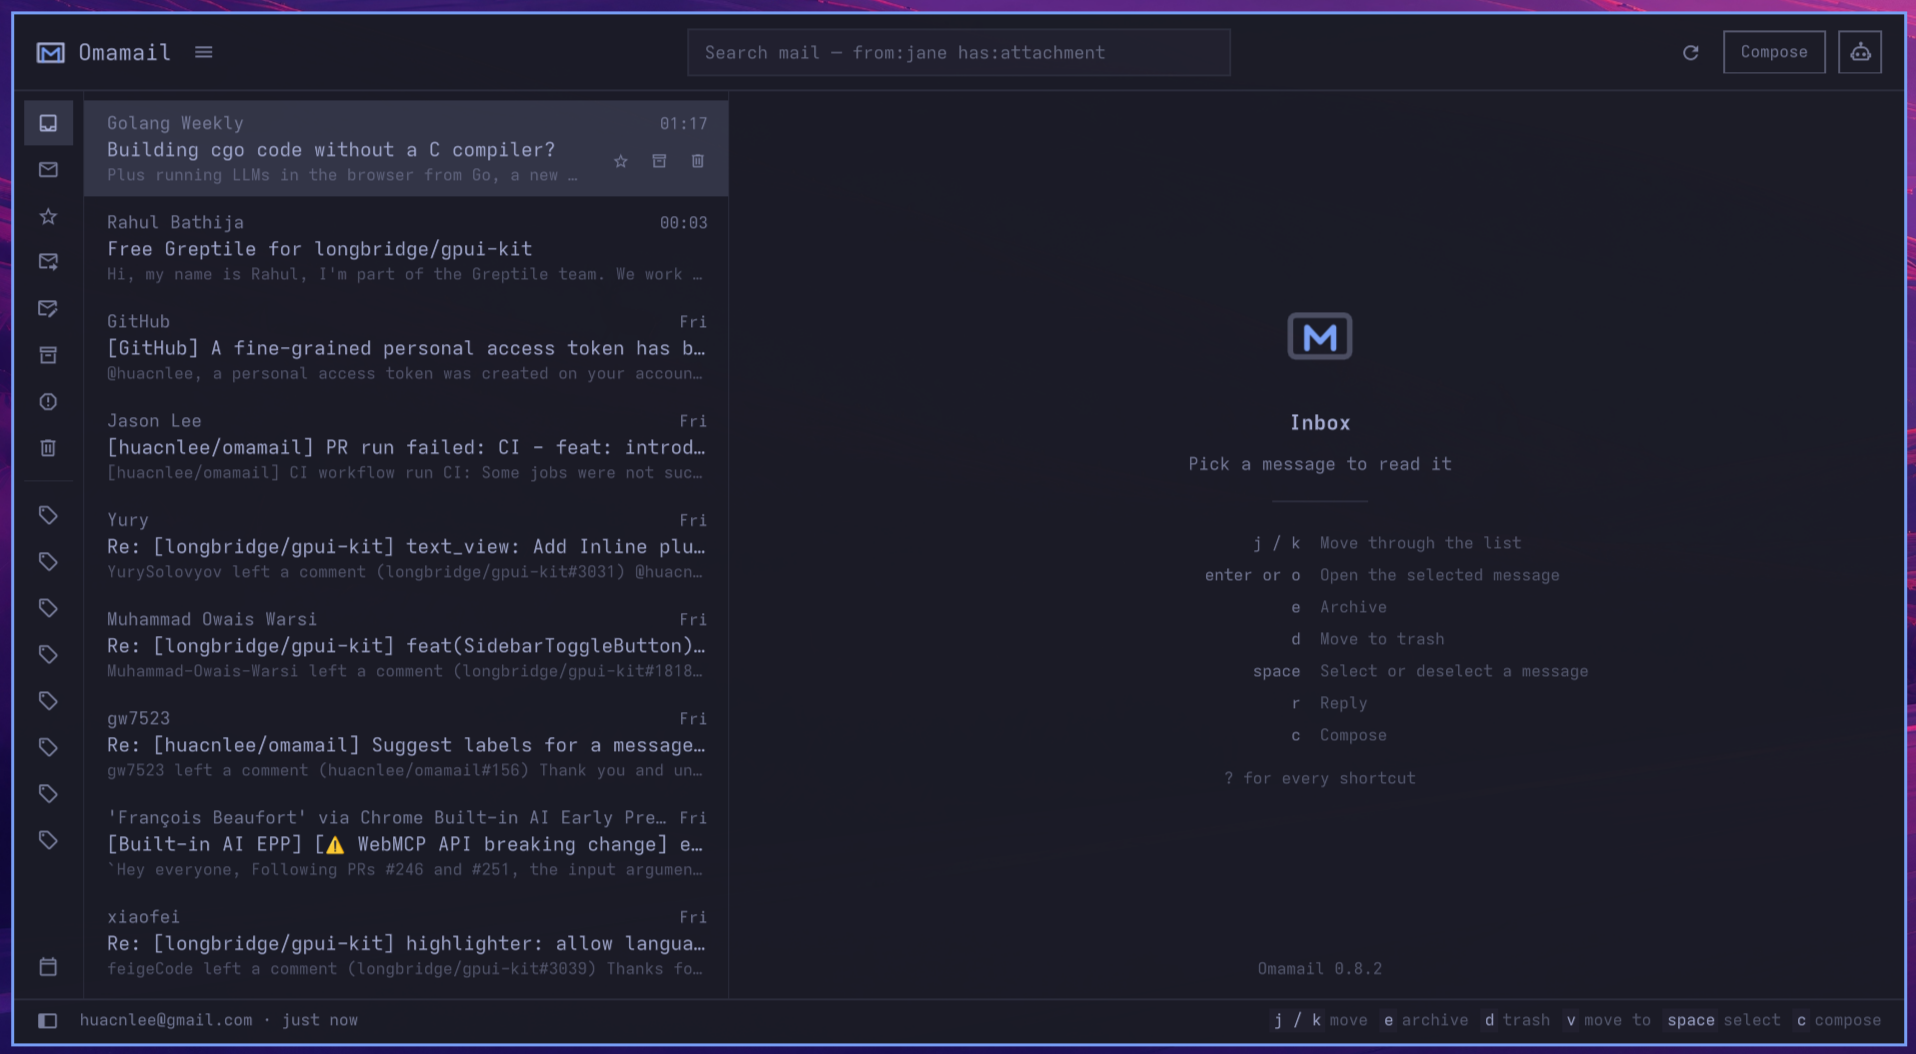
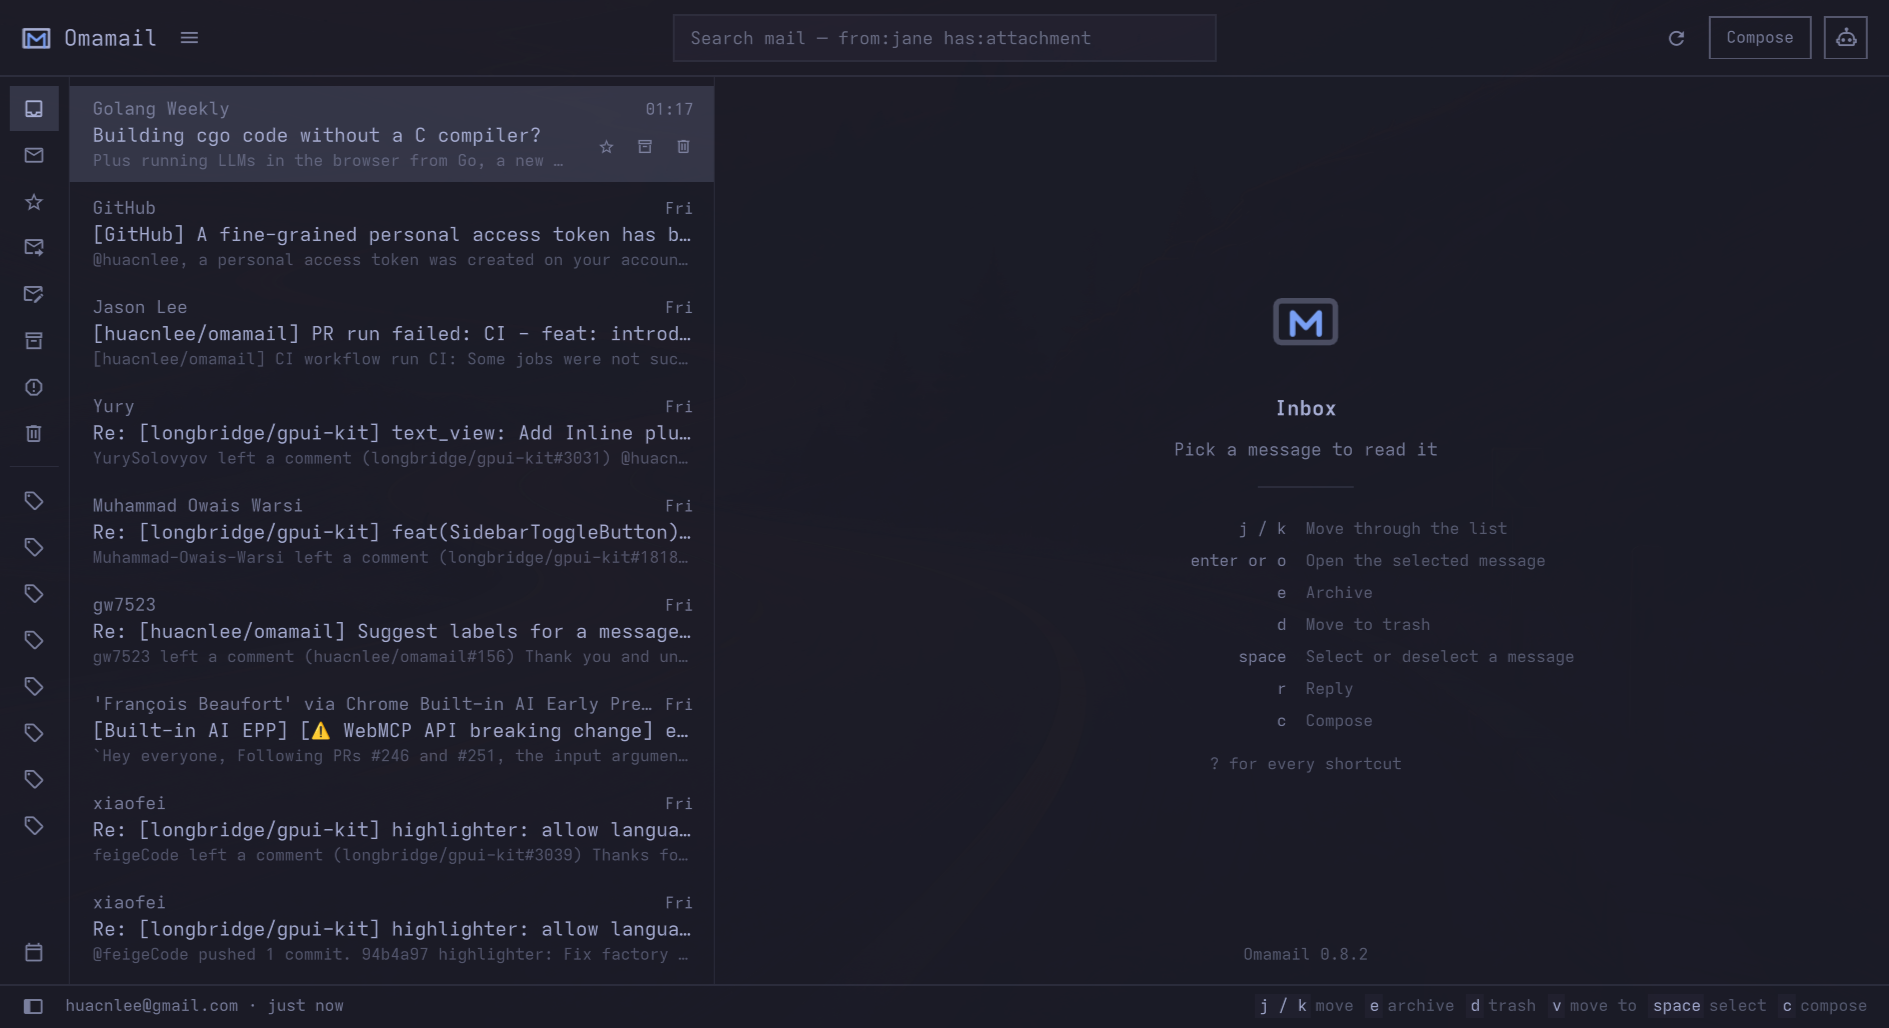
docs: refresh homepage inbox screenshot

diff --git a/docs/index.html b/docs/index.html
@@ -787,7 +787,7 @@ footer p:last-child { margin-bottom: 0; }
     <figure>
       <p class="shot-label" data-zh="大窗口">FULL WINDOW</p>
       <div class="shot-row">
-        <img class="shot shot-span" src="images/full-mail.webp" width="1916" height="1054" alt="Omamail - Inbox with sender-first message rows and the reader welcome screen" loading="lazy">
+        <img class="shot shot-span" src="images/full-mail.webp" width="1889" height="1028" alt="Omamail - Inbox with sender-first message rows and the reader welcome screen" loading="lazy">
         <img class="shot shot-span" src="images/full-ai.webp" width="1889" height="1028" alt="Omamail - Reading a newsletter alongside an AI summary and follow-up conversation" loading="lazy">
         <img class="shot shot-wide" src="images/full-calendar.webp" width="1593" alt="Omamail - The calendar in month view" loading="lazy">
         <img class="shot shot-wide" src="images/full-compose.webp" width="1593" alt="Omamail - Writing a new message" loading="lazy">
